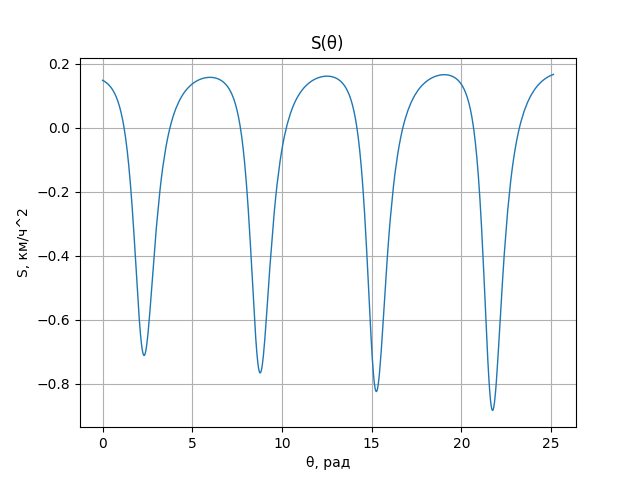
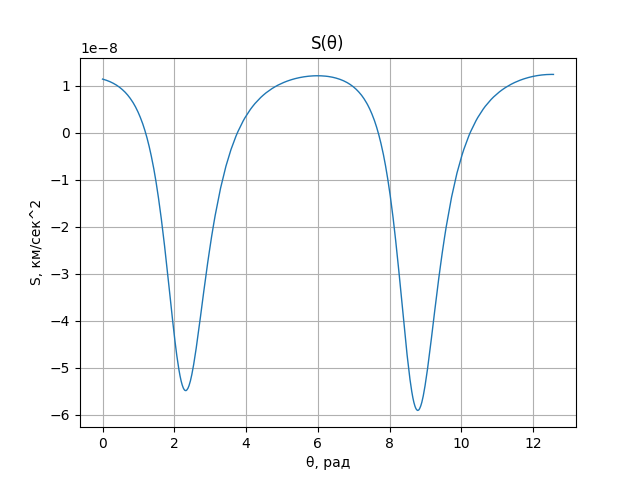
update

diff --git a/КР/main.py b/КР/main.py
@@ -6,8 +6,8 @@ import moon
 
 sigma_x = get_sigma_x(Cxa=C_xa, Sa=Sa, m=m)
 
-revolutions = 2 * 4  # Количество оборотов
-theta_list = list(np.arange(0, revolutions * math.pi + d_theta, d_theta))
+revolutions = 2  # Количество оборотов
+theta_list = list(np.arange(0, revolutions * 2 * math.pi + d_theta, d_theta))
 r_list = []
 p_list = []
 OMEGA_list = []
@@ -93,6 +93,7 @@ def iterative_loop():
         moon_coord, moon_theta = moon.find_moon_position(t=current_time)
         spacecraft_coord = get_agesk(theta=theta, ra=r, i=i, big_omega=OMEGA, omega=omega)
 
+        # print(moon_theta)
         moon_X.append(moon_coord[0])
         moon_Y.append(moon_coord[1])
         moon_Z.append(moon_coord[2])
@@ -220,13 +221,13 @@ def main():
     chart(x=theta_list, y=T_list[:len(theta_list)], title='T(θ)', xlabel='θ, рад', ylabel='T, км/ч^2')
     chart(x=theta_list, y=W_list[:len(theta_list)], title='W(θ)', xlabel='θ, рад', ylabel='W, км/ч^2')
 
-    #
-    # chart(x=theta_list, y=[i / 3600 / 3600 for i in S_list[:len(theta_list)]], title='S(θ)', xlabel='θ, рад',
-    #       ylabel='S, км/сек^2')
-    # chart(x=theta_list, y=[i / 3600 / 3600 for i in T_list[:len(theta_list)]], title='T(θ)', xlabel='θ, рад',
-    #       ylabel='T, км/сек^2')
-    # chart(x=theta_list, y=[i / 3600 / 3600 for i in W_list[:len(theta_list)]], title='W(θ)', xlabel='θ, рад',
-    #       ylabel='W, км/сек^2')
+    
+    chart(x=theta_list, y=[i / 3600 / 3600 for i in S_list[:len(theta_list)]], title='S(θ)', xlabel='θ, рад',
+          ylabel='S, км/сек^2')
+    chart(x=theta_list, y=[i / 3600 / 3600 for i in T_list[:len(theta_list)]], title='T(θ)', xlabel='θ, рад',
+          ylabel='T, км/сек^2')
+    chart(x=theta_list, y=[i / 3600 / 3600 for i in W_list[:len(theta_list)]], title='W(θ)', xlabel='θ, рад',
+          ylabel='W, км/сек^2')
 
     if H_list:
         chart(x=theta_list, y=H_list[:len(theta_list)], title='H(θ)', xlabel='θ, рад', ylabel='H, км')

diff --git a/ОУЛА/part2/func.py b/ОУЛА/part2/func.py
@@ -1,6 +1,6 @@
 # Правые части систем уравнений для численного интергрирования
-R_x1 = lambda x1, x2, psi1, psi2: 3 * x2
-R_x2 = lambda x1, x2, psi1, psi2: x1 - 1 / (2 * 3) * psi2
+R_x1   = lambda x1, x2, psi1, psi2: 3 * x2
+R_x2   = lambda x1, x2, psi1, psi2: x1 - 1 / (2 * 3) * psi2
 R_psi1 = lambda x1, x2, psi1, psi2: -psi2
 R_psi2 = lambda x1, x2, psi1, psi2: -2 * 2 * x2 - 3 * psi1
 
